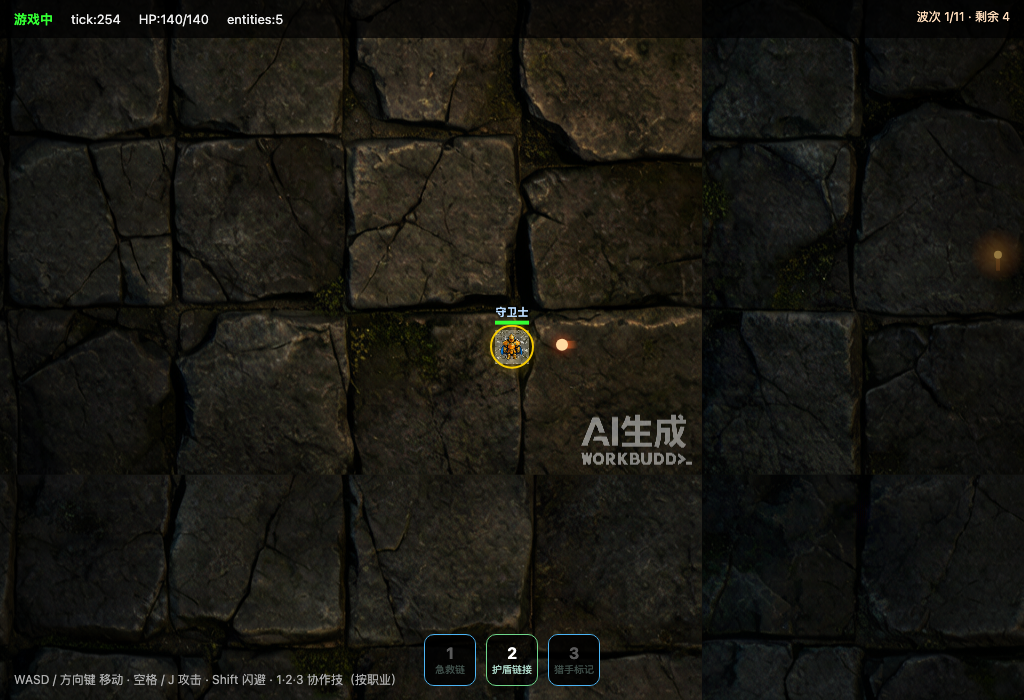
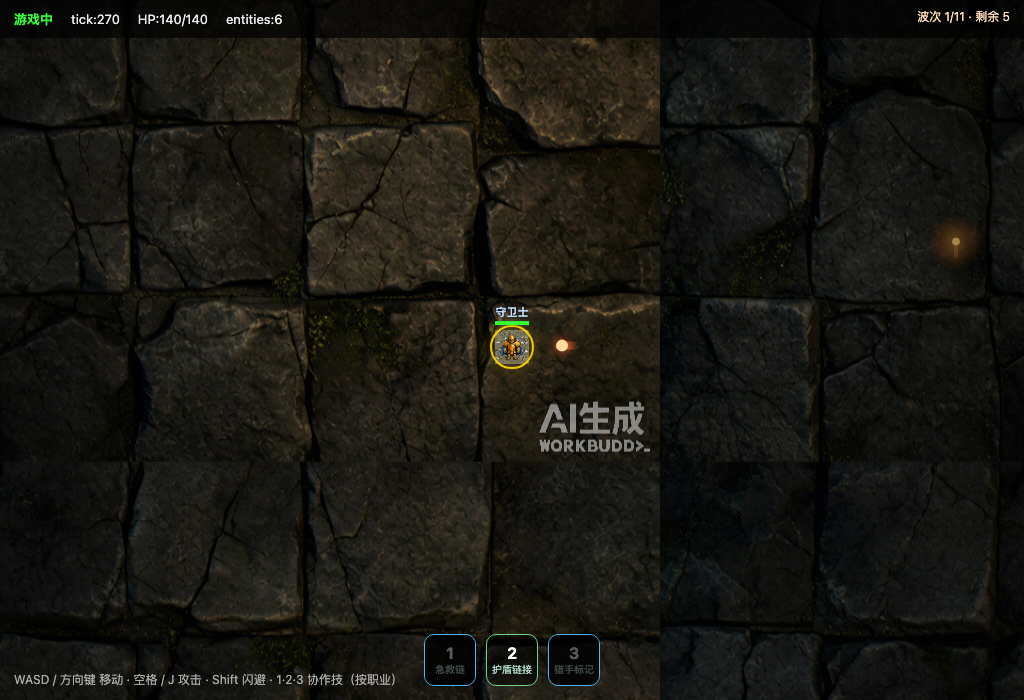
④ brute/bomber 专属 AI 精灵 + 客户端 golden 对齐
- 新增 assets/brute.png (brute_charger 壮硕红角冲锋怪)、assets/bomber.png (bomber_imp 圆滚滚引信炸弹怪)，AI 生成，风格对齐 grunt.png/hero.png。
- 客户端 SPRITE_SRC 接入 brute/bomber；enemySpriteKey 不再复用 grunt；spriteSizeFor 设 brute=36、bomber=28 以匹配体型。
- verify-client.mjs 20/20 PASS；刷新 verify-client.png 参考截图。
- 注意：bomber.png 右下角有极小的 AI 生成水印，缩放后游戏中几乎不可见，可后续替换。

diff --git a/games/dungeon-online/apps/web-client/index.html b/games/dungeon-online/apps/web-client/index.html
@@ -165,6 +165,8 @@ const SPRITE_SRC = {
   caster: 'assets/caster.png',
   boss: 'assets/boss.png',
   floor: 'assets/floor.png',
+  brute: 'assets/brute.png',   // ④ brute_charger 专属精灵（原复用 grunt）
+  bomber: 'assets/bomber.png', // ④ bomber_imp 专属精灵（原复用 grunt）
 };
 const SPRITES = {};
 let floorPattern = null;
@@ -558,8 +560,8 @@ function enemySpriteKey(tid) {
   if (!tid) return 'grunt';
   if (tid.startsWith('elite')) return 'elite';
   if (tid.startsWith('caster')) return 'caster';
-  if (tid.startsWith('brute')) return 'grunt'; // brute_charger 复用 grunt 精灵（无专属资产）
-  if (tid.startsWith('bomber')) return 'grunt'; // M13 自爆兵 复用 grunt 精灵（无专属资产）
+  if (tid.startsWith('brute')) return 'brute'; // ④ brute_charger 专属精灵
+  if (tid.startsWith('bomber')) return 'bomber'; // ④ bomber_imp 专属精灵
   if (tid.startsWith('boss')) return 'boss';
   return 'grunt';
 }
@@ -574,6 +576,8 @@ function spriteKeyFor(e) {
 function spriteSizeFor(e) {
   if (e.kind === 2) return 76;   // boss: massive
   if (e.kind === 0) return 34;   // hero
+  if (e.enemyTypeId && e.enemyTypeId.startsWith('brute')) return 36; // ④ brute 更壮硕
+  if (e.enemyTypeId && e.enemyTypeId.startsWith('bomber')) return 28; // ④ bomber 更小巧
   if (e.enemyTypeId && e.enemyTypeId.startsWith('caster')) return 34; // caster
   return 30;                      // grunt / elite
 }
